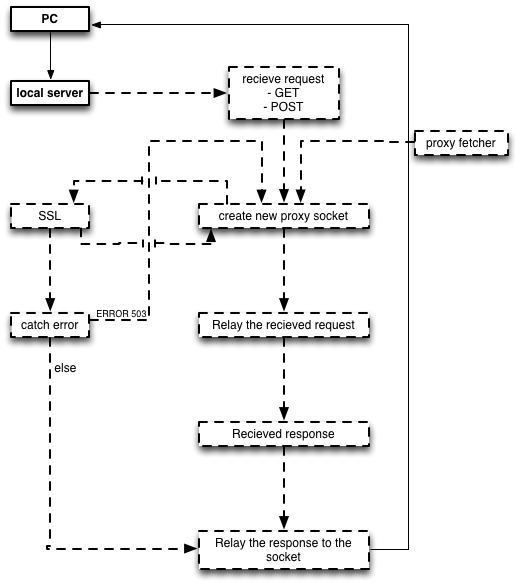
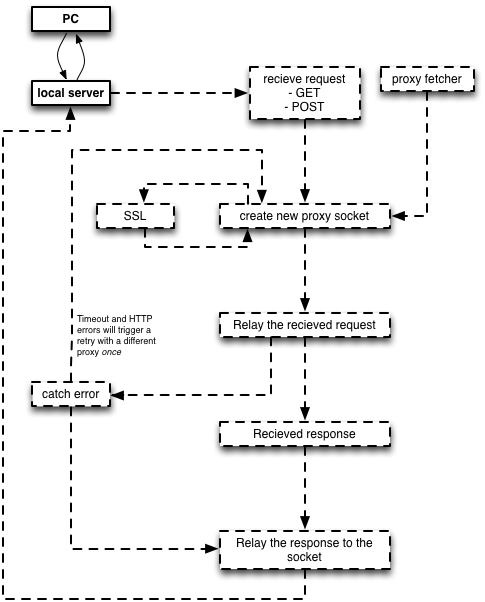
updated readme graphics

Changed region(s): [[0.0, 0.0, 0.9897, 1.0], [0.866, 0.339, 0.8969, 0.3699]]

diff --git a/README.md b/README.md
@@ -7,11 +7,10 @@ This is a multithreaded, man-in-the-middle proxy rotator acting as a relay for H
 
 ##It's not magic
 ***
-This expamle describes the life of a HTTP GET request.
+This expamle describes the life of a HTTP GET/POST request.
 
 ![How it works graphics](https://github.com/jorgenkg/python-proxy-rotator/blob/master/magic.png?raw=true)
 
-The server recieves a 
 ##Requirements
 ***
 1. `Python 2.5 +`
